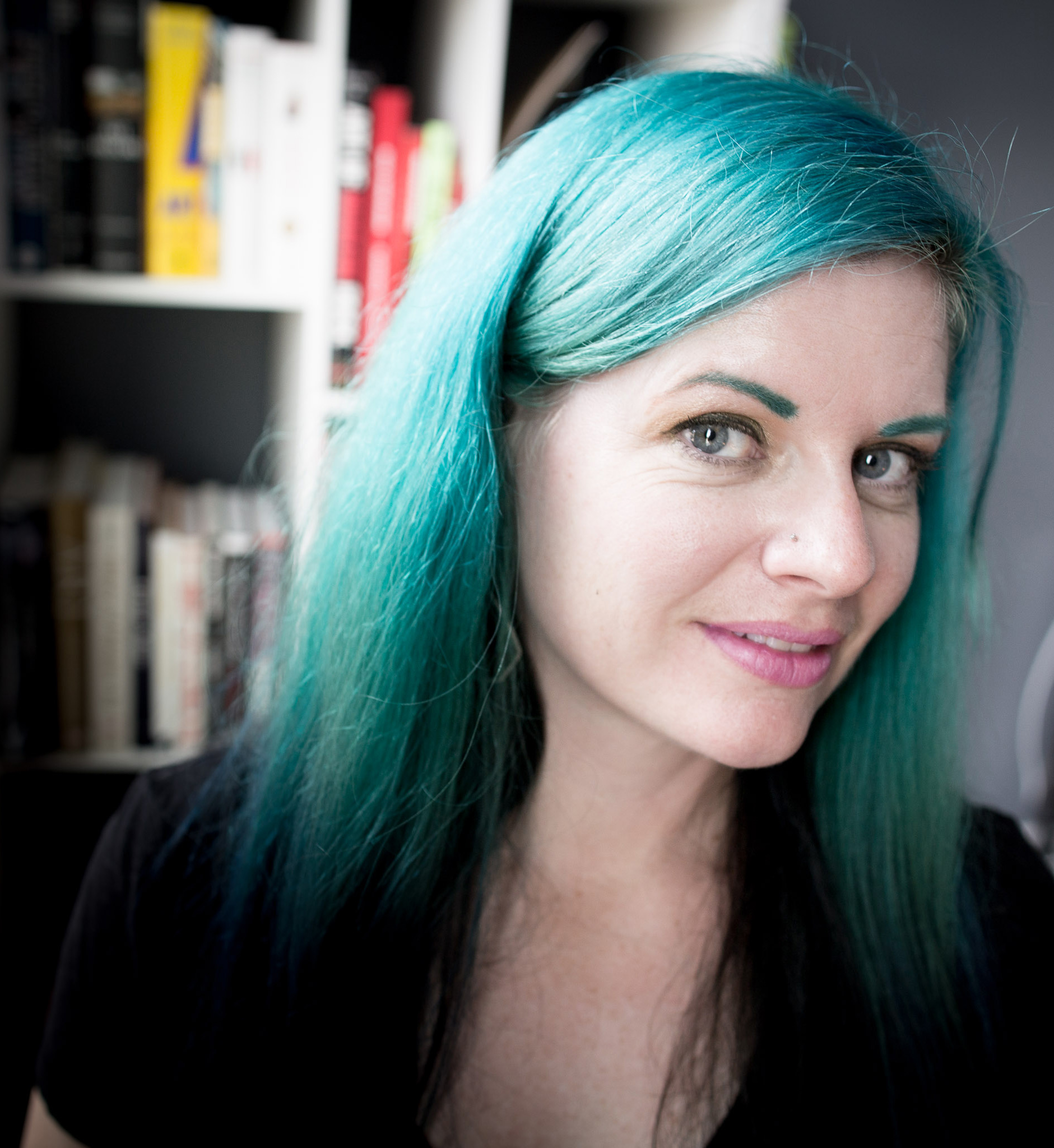
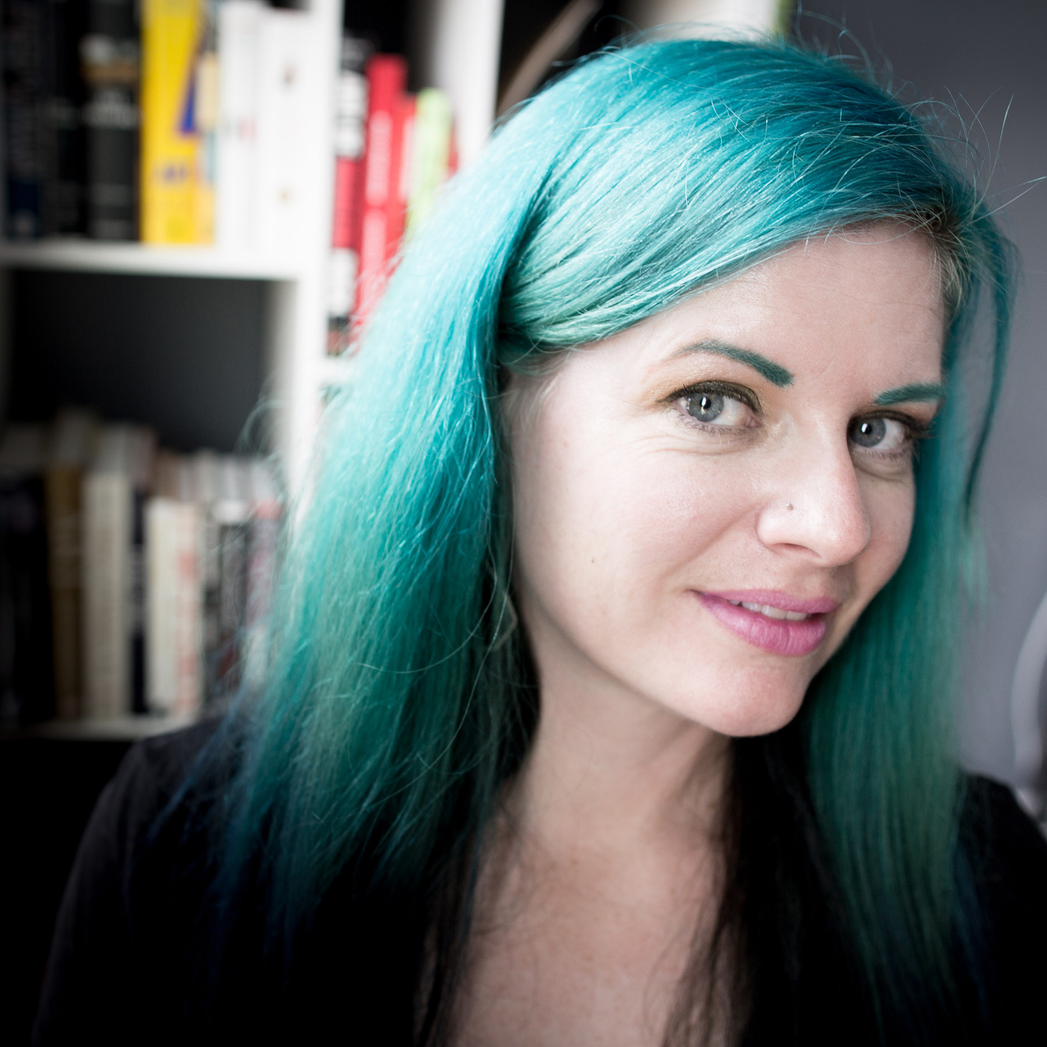
update mandy's photo cropping/positioning

diff --git a/pages/about.js b/pages/about.js
@@ -22,6 +22,15 @@ export default function AboutPage() {
       </article>
       <article>
         <h2>your host</h2>
+        <div className={style.image}>
+          <Image
+            src="/images/mandy.jpg"
+            alt="Photo of Mandy"
+            width={336}
+            height={336}
+            objectFit="cover"
+          />
+        </div>
         <p>
           Mandy became interested in graphic design history while studying
           graphic design at Oklahoma State University. After graduation she took
@@ -46,13 +55,6 @@ export default function AboutPage() {
           relief she likes to practice hand lettering and calligraphy techniques
           and has an obsession with buying pens.
         </p>
-        <Image
-          src="/images/mandy.jpg"
-          alt="Photo of Mandy"
-          width={800}
-          height={872}
-          objectFit="cover"
-        />
       </article>
       <article>
         <h2>our team</h2>

diff --git a/pages/about.module.css b/pages/about.module.css
@@ -2,3 +2,11 @@
     max-width: 60ch;
     margin: 0 auto;
 }
+
+.image {
+    float: left;
+    margin: 1.25em 1em 0 0;
+    line-height: 0;
+    border-radius: 4px;
+    overflow: hidden;
+}
